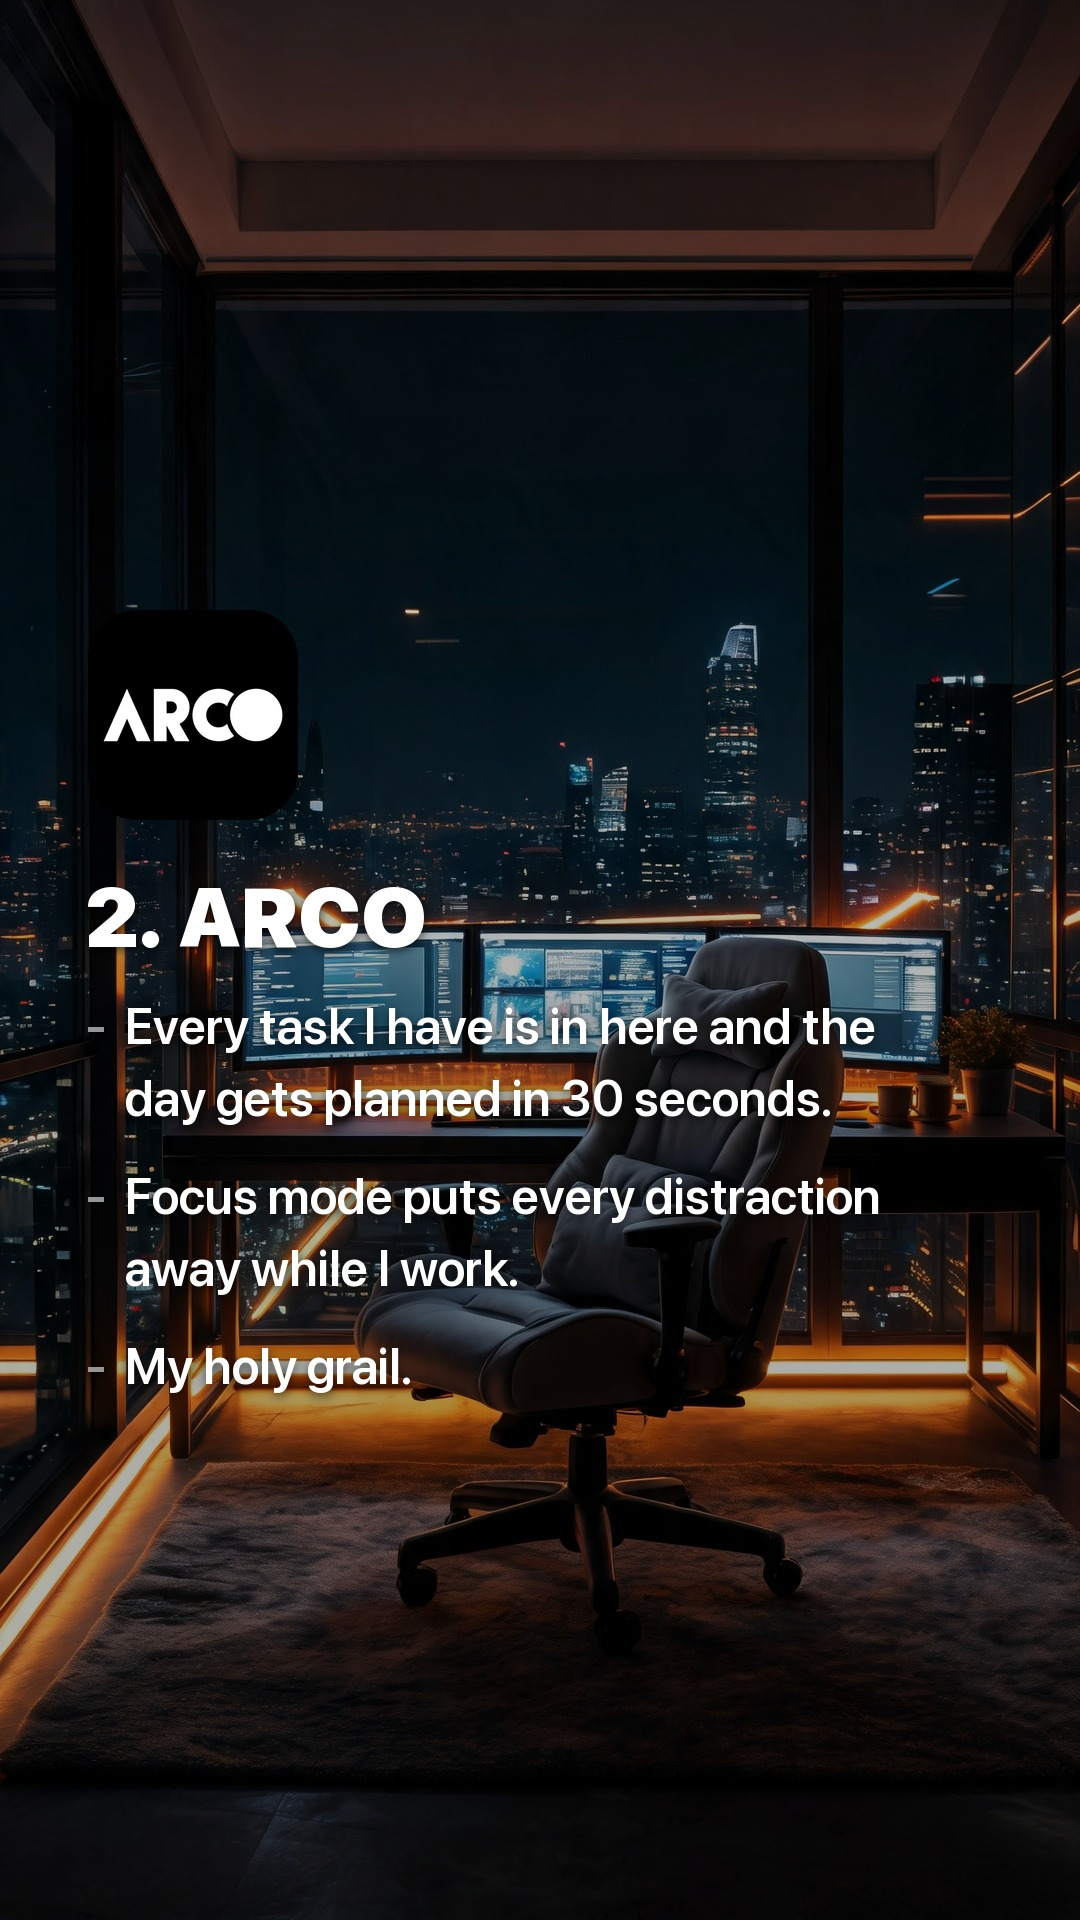
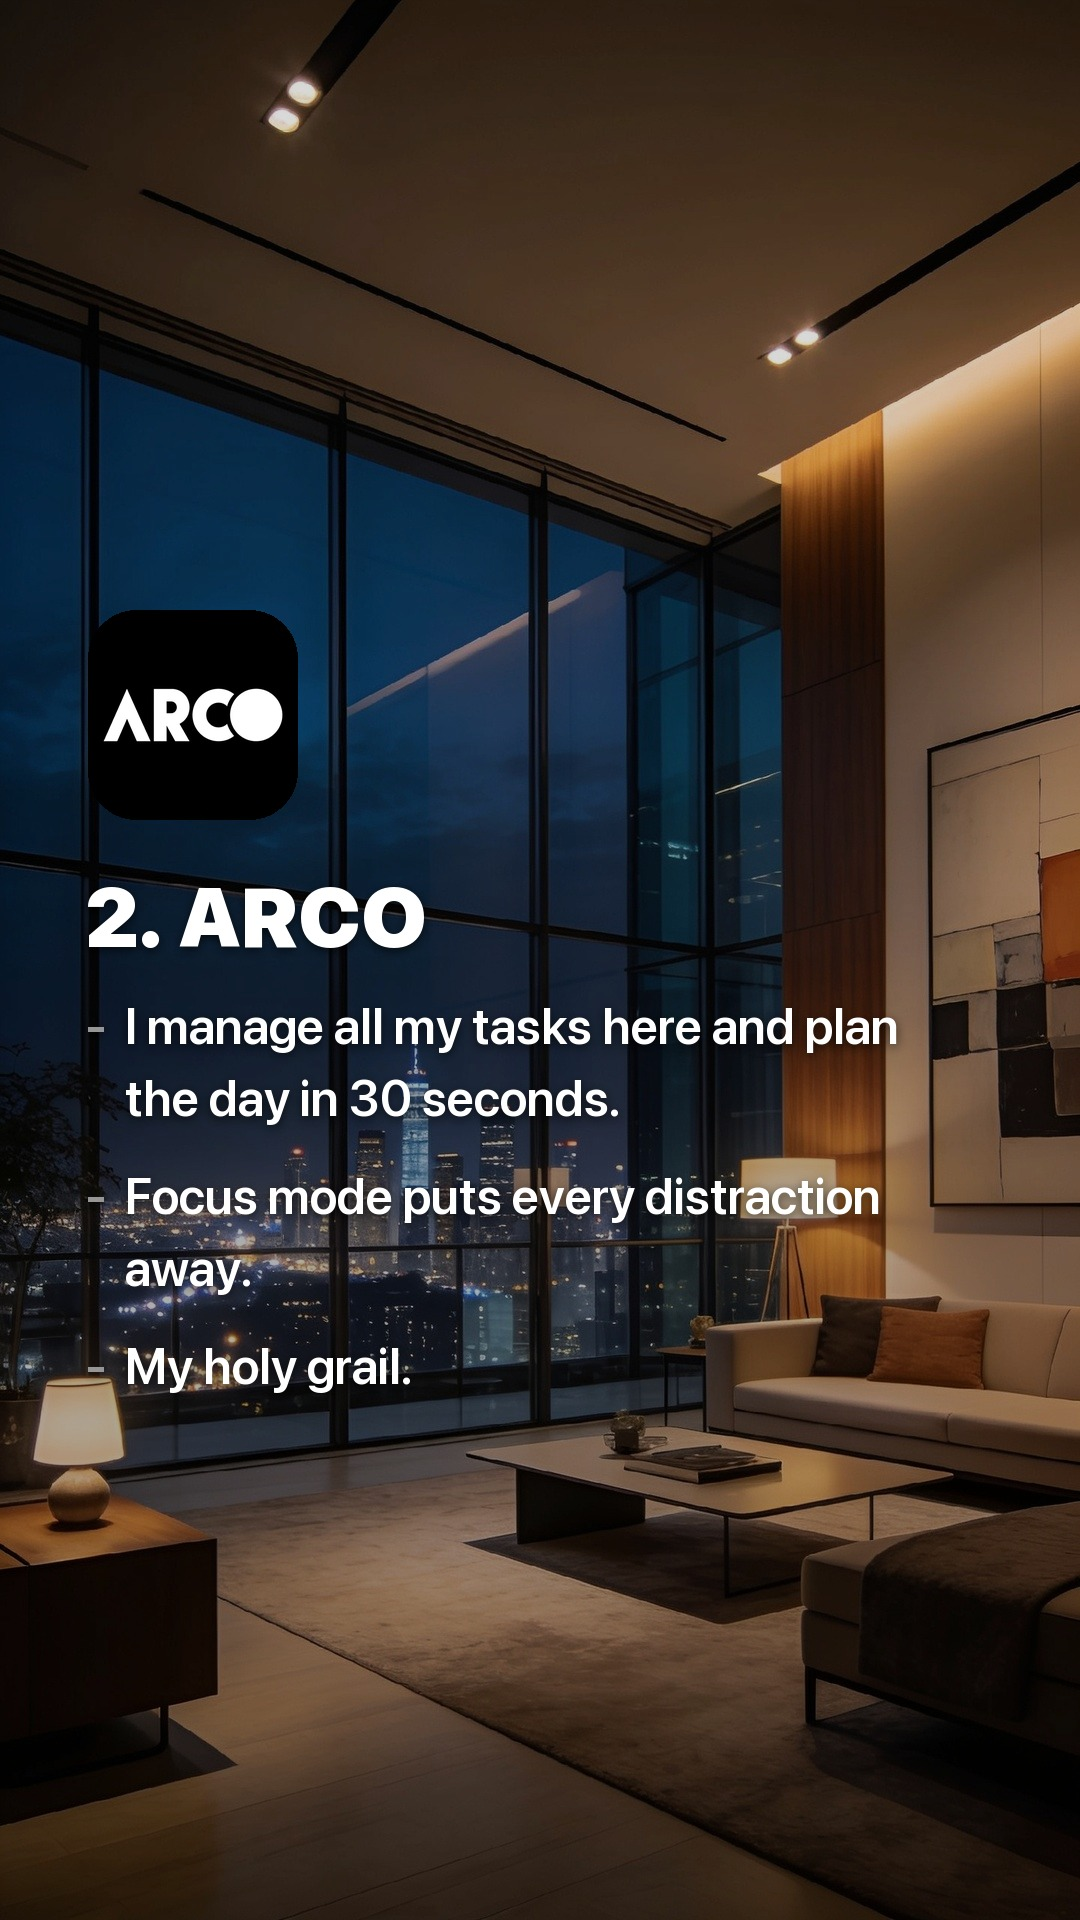
two roster rules: night desks are hook-only, exactly one LLM per post
assert_bg_roles keeps desk-led-neon, desk-led-warm and desk-person-night
on slide 1. They are the best images in the pool but behind five lines of
body copy the monitors and LED strips fight the text, and a carousel of
them reads as one long slide.

assert_one_llm now requires exactly one model rather than at most one.
Zero reads as a post that skipped what people are curious about.

twelve-apps re-rendered: ElevenLabs out, Perplexity in at #3 (rotating
off Claude, which carried keep-five), and the two night-desk app slides
moved to supercars-dusk and lounge-night.

Note recorded in content.md: this leaves supercars-dusk and lounge-night
as the only dark non-person vibes for app slides. Worth generating more
dark non-desk scenes before it repeats.

Claude-Session: https://claude.ai/code/session_018WcmYQJRQqBfrRpJzu76Jc

diff --git a/tools/gen-twelve-apps.py b/tools/gen-twelve-apps.py
@@ -8,23 +8,25 @@ import os
 import sys
 sys.path.insert(0, '/Users/thinh/SIXSIX/arco-app/tools')
 from compose import (app_slide, hook_slide, assert_varied, assert_fresh_tools,
-                     assert_one_llm, next_arco_angle, record_post_tools,
-                     pick_hook_bg)
+                     assert_one_llm, next_arco_angle, record_post_tools)
 
 OUT = '/Users/thinh/SIXSIX/arco-app/drafts/twelve-apps'
 os.makedirs(OUT, exist_ok=True)
 
-TOOLS = ['Canva', 'ARCO', 'Figma', 'Zapier', 'ElevenLabs']
+# Exactly one LLM, rotated off Claude which carried the last post.
+TOOLS = ['Canva', 'ARCO', 'Perplexity', 'Figma', 'Zapier']
 
 # App slides carry five lines of white body copy, so their backgrounds have to
 # be dark enough for the scrim to hold them. Adjacent vibes must differ.
-HOOK_BG = pick_hook_bg()          # bg-h02, lounge-day, never used on a hook
-BGS = [HOOK_BG,
-       'bg-h60.jpg',   # canva       desk-led-neon
-       'bg-h54.jpg',   # arco        desk-led-warm
-       'bg-h45.jpg',   # figma       window-silhouette
-       'bg-h35.jpg',   # zapier      supercars-dusk
-       'bg-h24.jpg']   # elevenlabs  lounge-night
+# Night desk setups are hook only now, which takes desk-led-neon and
+# desk-led-warm off the app slides and leaves supercars-dusk, lounge-night and
+# the two person vibes as the dark options.
+BGS = ['bg-h02.jpg',   # hook        lounge-day
+       'bg-h35.jpg',   # canva       supercars-dusk
+       'bg-h24.jpg',   # arco        lounge-night
+       'bg-h45.jpg',   # perplexity  window-silhouette (the one person)
+       'bg-h36.jpg',   # figma       supercars-dusk
+       'bg-h21.jpg']   # zapier      lounge-night
 
 assert_one_llm(TOOLS)
 assert_fresh_tools(TOOLS)
@@ -43,28 +45,28 @@ app_slide(BGS[1], 'icon-canva.png', '1. Canva', [
 
 app_slide(BGS[2], 'icon-arco.png', '2. ARCO', next_arco_angle(), f'{OUT}/03.jpg')
 
-app_slide(BGS[3], 'icon-figma.png', '3. Figma', [
+app_slide(BGS[3], 'icon-perplexity.png', '3. Perplexity', [
+    'A Space holds your own files and',
+    'a set of standing instructions.',
+    '',
+    'Every question you ask inside it',
+    'answers from your material.',
+], f'{OUT}/04.jpg')
+
+app_slide(BGS[4], 'icon-figma.png', '4. Figma', [
     'Make one element a component and',
     'every copy of it stays linked.',
     '',
     'Change the master once and it',
     'updates across every page.',
-], f'{OUT}/04.jpg')
+], f'{OUT}/05.jpg')
 
-app_slide(BGS[4], 'icon-zapier.png', '4. Zapier', [
+app_slide(BGS[5], 'icon-zapier.png', '5. Zapier', [
     'A zap can run on a schedule, not',
     'only when something triggers it.',
     '',
     'Every monday it pulls your numbers',
     'into a sheet while you sleep.',
-], f'{OUT}/05.jpg')
-
-app_slide(BGS[5], 'icon-elevenlabs.png', '5. ElevenLabs', [
-    'It clones a voice from about a',
-    'minute of clean audio.',
-    '',
-    'After that it reads anything you',
-    'write in the same voice.',
 ], f'{OUT}/06.jpg')
 
 record_post_tools('twelve-apps', TOOLS)

diff --git a/tools/compose.py b/tools/compose.py
@@ -202,9 +202,10 @@ def next_arco_angle():
     return pick['lines']
 
 
-# One LLM per post. Two of them is the same slide twice: the viewer cannot
-# tell the models apart from a one line description, and it burns a slot that
-# could teach something else. Which one varies by post.
+# Exactly one LLM per post, never zero and never two. Zero reads as a post
+# that missed the thing everyone is actually curious about; two is the same
+# slide twice, because nobody can tell two models apart from a one line
+# description. Which model appears rotates between posts.
 LLMS = {
     'Claude', 'Codex', 'ChatGPT', 'Gemini', 'Perplexity', 'Manus',
     'Antigravity', 'Cursor', 'Copilot', 'Grok', 'DeepSeek', 'v0', 'Lovable',
@@ -212,12 +213,16 @@ LLMS = {
 
 
 def assert_one_llm(tools):
-    """Raise if a post names more than one LLM or AI coding agent."""
+    """Raise unless a post names exactly one LLM or AI coding agent."""
     used = [t for t in tools if t in LLMS]
     if len(used) > 1:
         raise SystemExit(
             f'{len(used)} LLMs in one post: {", ".join(used)}. '
             'Pick one; the second is the same slide twice.')
+    if not used:
+        raise SystemExit(
+            'no LLM in this post. Every post carries exactly one; rotate '
+            f'which: {", ".join(sorted(LLMS))}.')
     return True
 
 
@@ -269,6 +274,27 @@ def hook_bg_status():
     return len(used), len(pool)
 
 
+# Night desk setups with monitors are HOOK ONLY. They are the strongest
+# images in the pool and they read as "someone's actual setup", which is
+# exactly the note the first slide needs. Behind five lines of body copy the
+# monitors and LED strips fight the text instead, and a carousel of them looks
+# like one long slide. Use them at index 0 and nowhere else.
+HOOK_ONLY_VIBES = {'desk-led-neon', 'desk-led-warm', 'desk-person-night',
+                   'desk-lamp-night'}
+
+
+def assert_bg_roles(bgs):
+    """Raise if a hook-only background is used on anything but the hook."""
+    bad = [(i, b, VIBES.get(b)) for i, b in enumerate(bgs)
+           if i > 0 and VIBES.get(b) in HOOK_ONLY_VIBES]
+    if bad:
+        detail = '; '.join(f'slide {i+1} uses {b} ({v})' for i, b, v in bad)
+        raise SystemExit(
+            f'night desk setups are hook only: {detail}. '
+            'Move it to slide 1 or pick a different scene.')
+    return True
+
+
 def assert_varied(bgs):
     """Raise if two adjacent slides share a vibe.
 
@@ -277,6 +303,7 @@ def assert_varied(bgs):
     in bg/manifest.json.
     """
     assert_one_person(bgs)
+    assert_bg_roles(bgs)
     for a, b in zip(bgs, bgs[1:]):
         va, vb = VIBES.get(a), VIBES.get(b)
         if va and va == vb:
